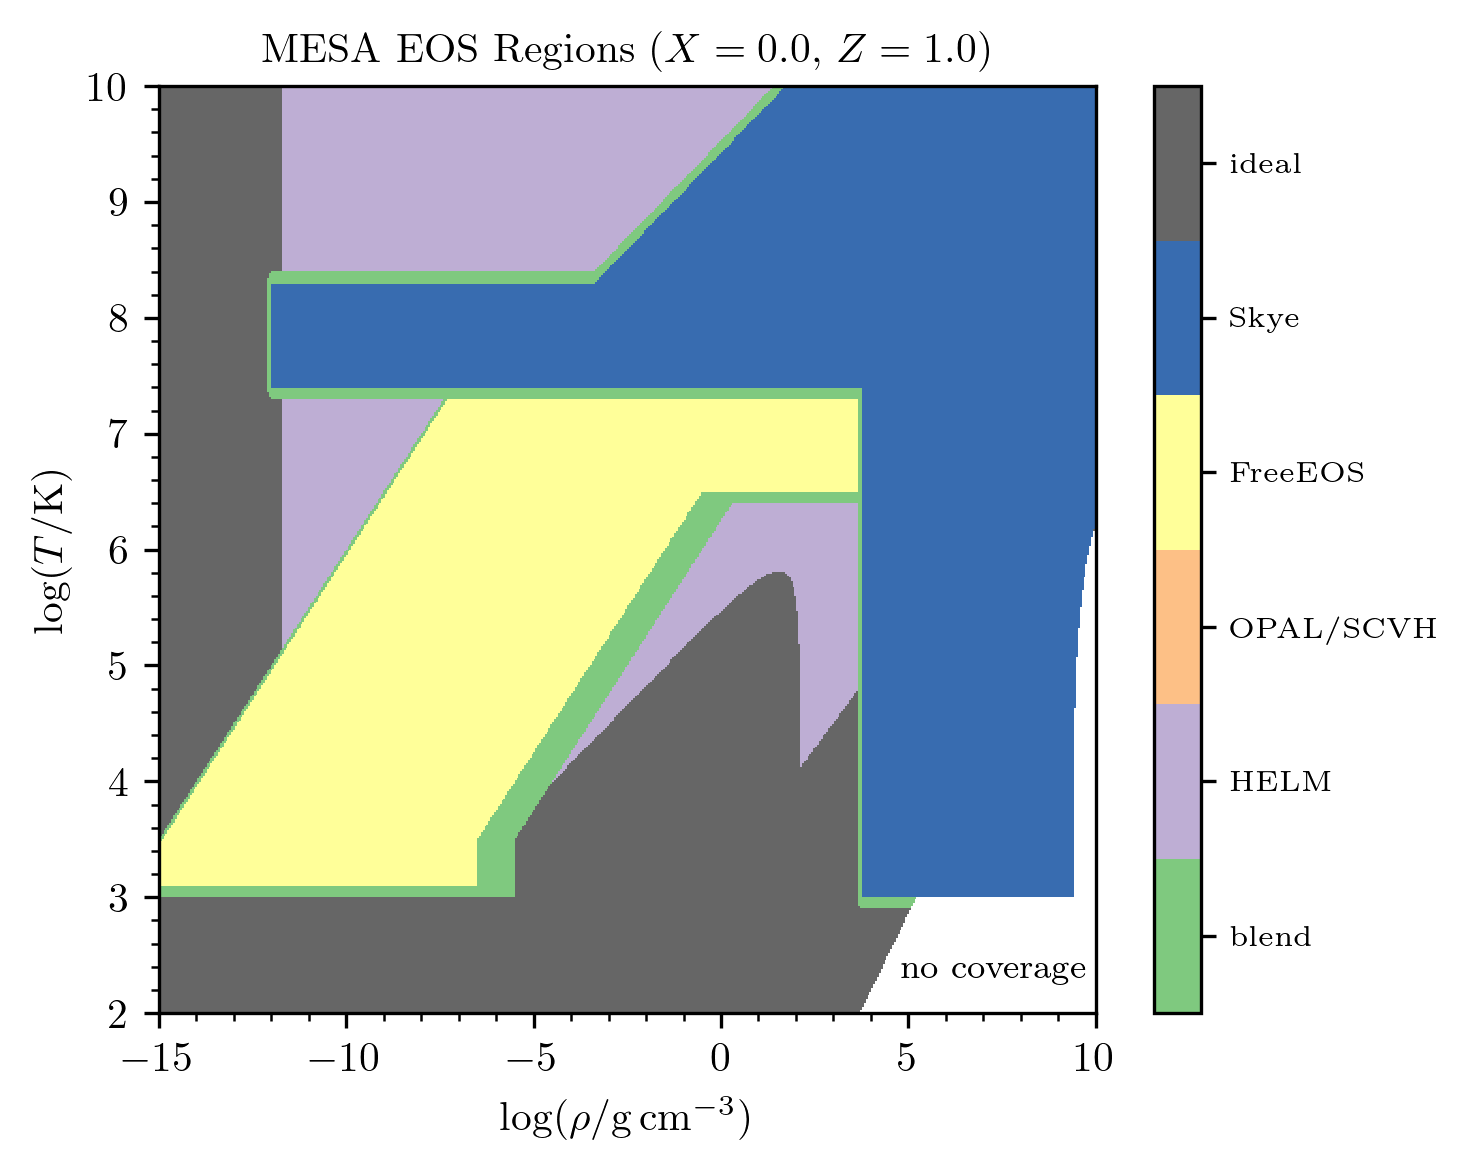
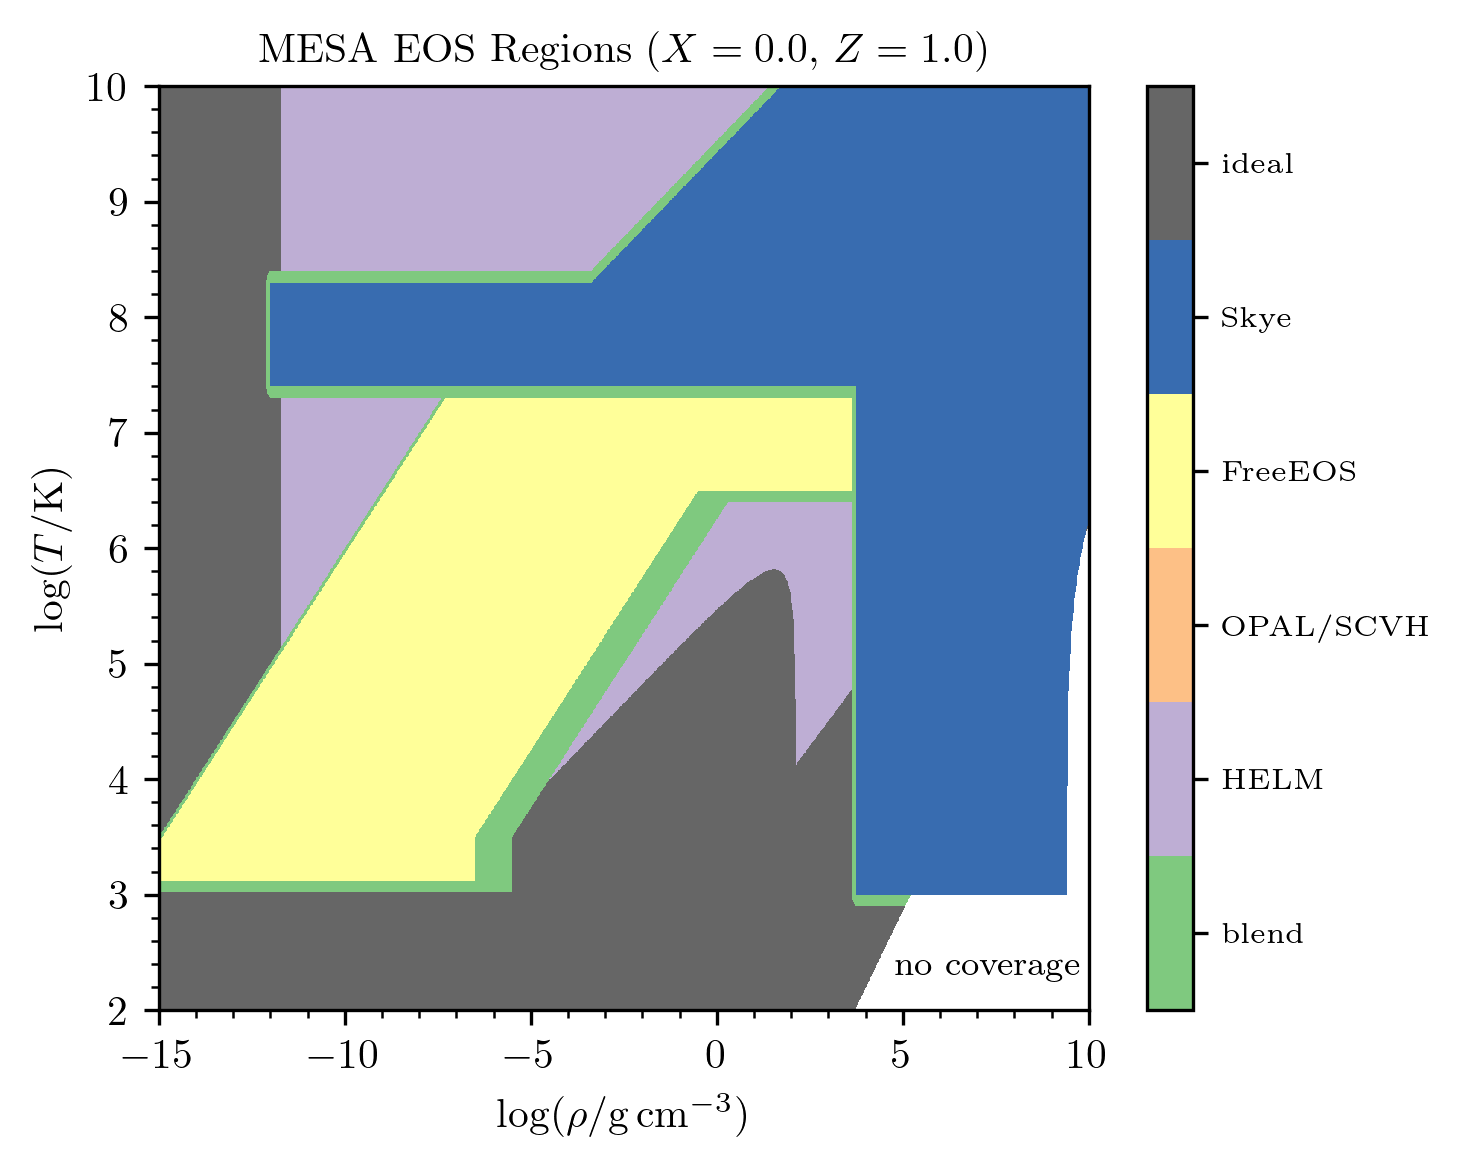
blend to ideal, update eos boundaries, fix small eos bugs

diff --git a/docs/source/known_bugs.rst b/docs/source/known_bugs.rst
@@ -26,14 +26,30 @@ This is fixed in `gh-1003 <https://github.com/MESAHub/mesa/pull/1003>`_.
 
 .. _freeeos_fallback_log_units_bug:
 
-EOS: FreeEOS fallback rows use the wrong logarithm base
-------------------------------------------------------
+EOS: FreeEOS fallback rows and OPAL/SCVH blends
+-----------------------------------------------
 
 Fixed an issue in the FreeEOS table builder where fallback rows marked by
 ``MESA = 1`` could write the MESA EOS values ``lnPgas``, ``lnE``, and ``lnS``
 into table columns that are read as base-10 logarithms. This could create
 discontinuities in the FreeEOS support table and noisy EOS partial derivatives,
 including near the low-density ``logT = 3.0 - 3.1`` FreeEOS boundary.
+
+This also exposed a low-density OPAL/SCVH edge where MESA was falling back to
+HELM. The fix updates this region so OPAL/SCVH blends to the ideal EOS at low
+density instead.
+
+Another OPAL/SCVH blend issue affected the high-Z transition between
+``Z = 0.035`` and ``Z = 0.04``. In practice these regions were not being
+blended in Z: OPAL/SCVH remained fully active below ``Z = 0.04`` wherever it
+could be used, then switched discontinuously to the HELM/ideal layer at
+``Z = 0.04``. This happened because the Z ramp multiplied the existing fallback
+fraction, which was zero in pure OPAL/SCVH regions. The fix fades OPAL/SCVH
+into the HELM/ideal layer across this Z interval.
+
+This is fixed after ``r26.4.1``. See
+`gh-921 <https://github.com/MESAHub/mesa/issues/921>`_. Users who need the
+patch directly can refer to `gh-997 <https://github.com/MESAHub/mesa/pull/997>`_.
 
 .. _report_max_infall_inside_fe_core_bug:
 

diff --git a/docs/source/changelog.rst b/docs/source/changelog.rst
@@ -53,10 +53,20 @@ Fixed a bug in the FreeEOS table builder where MESA fallback rows could write
 base-10 logarithms. This could create discontinuities and noisy EOS partial
 derivatives.
 
-The regenerated eosDT tables now also include an analytic low-pressure SCVH
-tail matched to the SCVH table edge where OPAL/SCVH previously hit table edge
-limits and fell back to HELM. The SCVH region has been extended toward
-:math:`\log_{10}\rho \simeq -14.9`.
+At the low-density OPAL/SCVH edge, MESA now blends the OPAL/SCVH component to
+the ideal EOS over :math:`-10 \leq \log_{10}\rho \leq -8` in the low-T
+OPAL/SCVH region where MESA was previously falling back to HELM.
+
+Fixed the OPAL/SCVH blend between ``Z = 0.035`` and ``Z = 0.04``. This blend
+was not working properly, so the EOS was not actually blending in Z over that
+interval. For more details, see
+:ref:`the known bugs entry <freeeos_fallback_log_units_bug>` and
+`gh-997 <https://github.com/MESAHub/mesa/pull/997>`_.
+
+.. figure:: changelog_plots/eos_regions_x070_z002_compare.png
+   :alt: EOS regions in mesa-r26.4.1 and this release for X = 0.7, Z = 0.02
+
+   EOS regions for a solar-like composition in mesa-r26.4.1 and this release.
 
 
 .. note:: Before releasing a new version of MESA, move `Changes in main` to a new section below with the version number as the title, and add a new `Changes in main` section at the top of the file (see ``changelog_template.rst``).